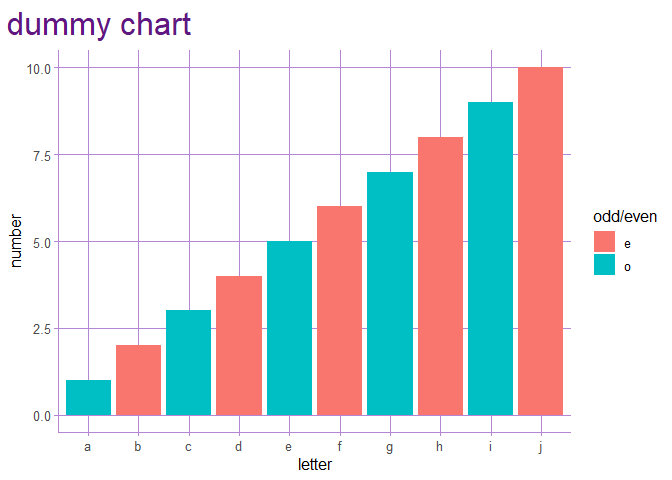
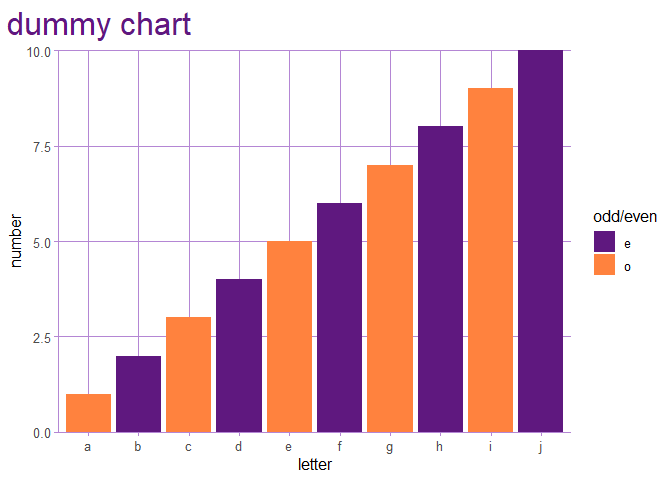
Better file paths

diff --git a/README.md b/README.md
@@ -58,7 +58,7 @@ eom_date(ymd('2022-04-19'), 13)
 ```
 
 Used without parameters it will give the last day of the current month
-(run on 2024-02-07):
+(run on 2024-02-16):
 
 ``` r
 eom_date()
@@ -97,6 +97,8 @@ Apply my theme to ggplot2 charts.
 ggplot(mapping = aes(x = letters[1:10], y = 1:10, fill = rep(c('o', 'e'), times = 5))) +
   geom_col() +
   labs(x = 'letter', y = 'number', fill = 'odd/even', title = 'dummy chart') +
+  scale_y_continuous(expand = expansion(c(0, NA))) +
+  scale_fill_manual(values = c(jo_pal$primary, jo_pal$secondary)) +
   theme_jo()
 ```
 
